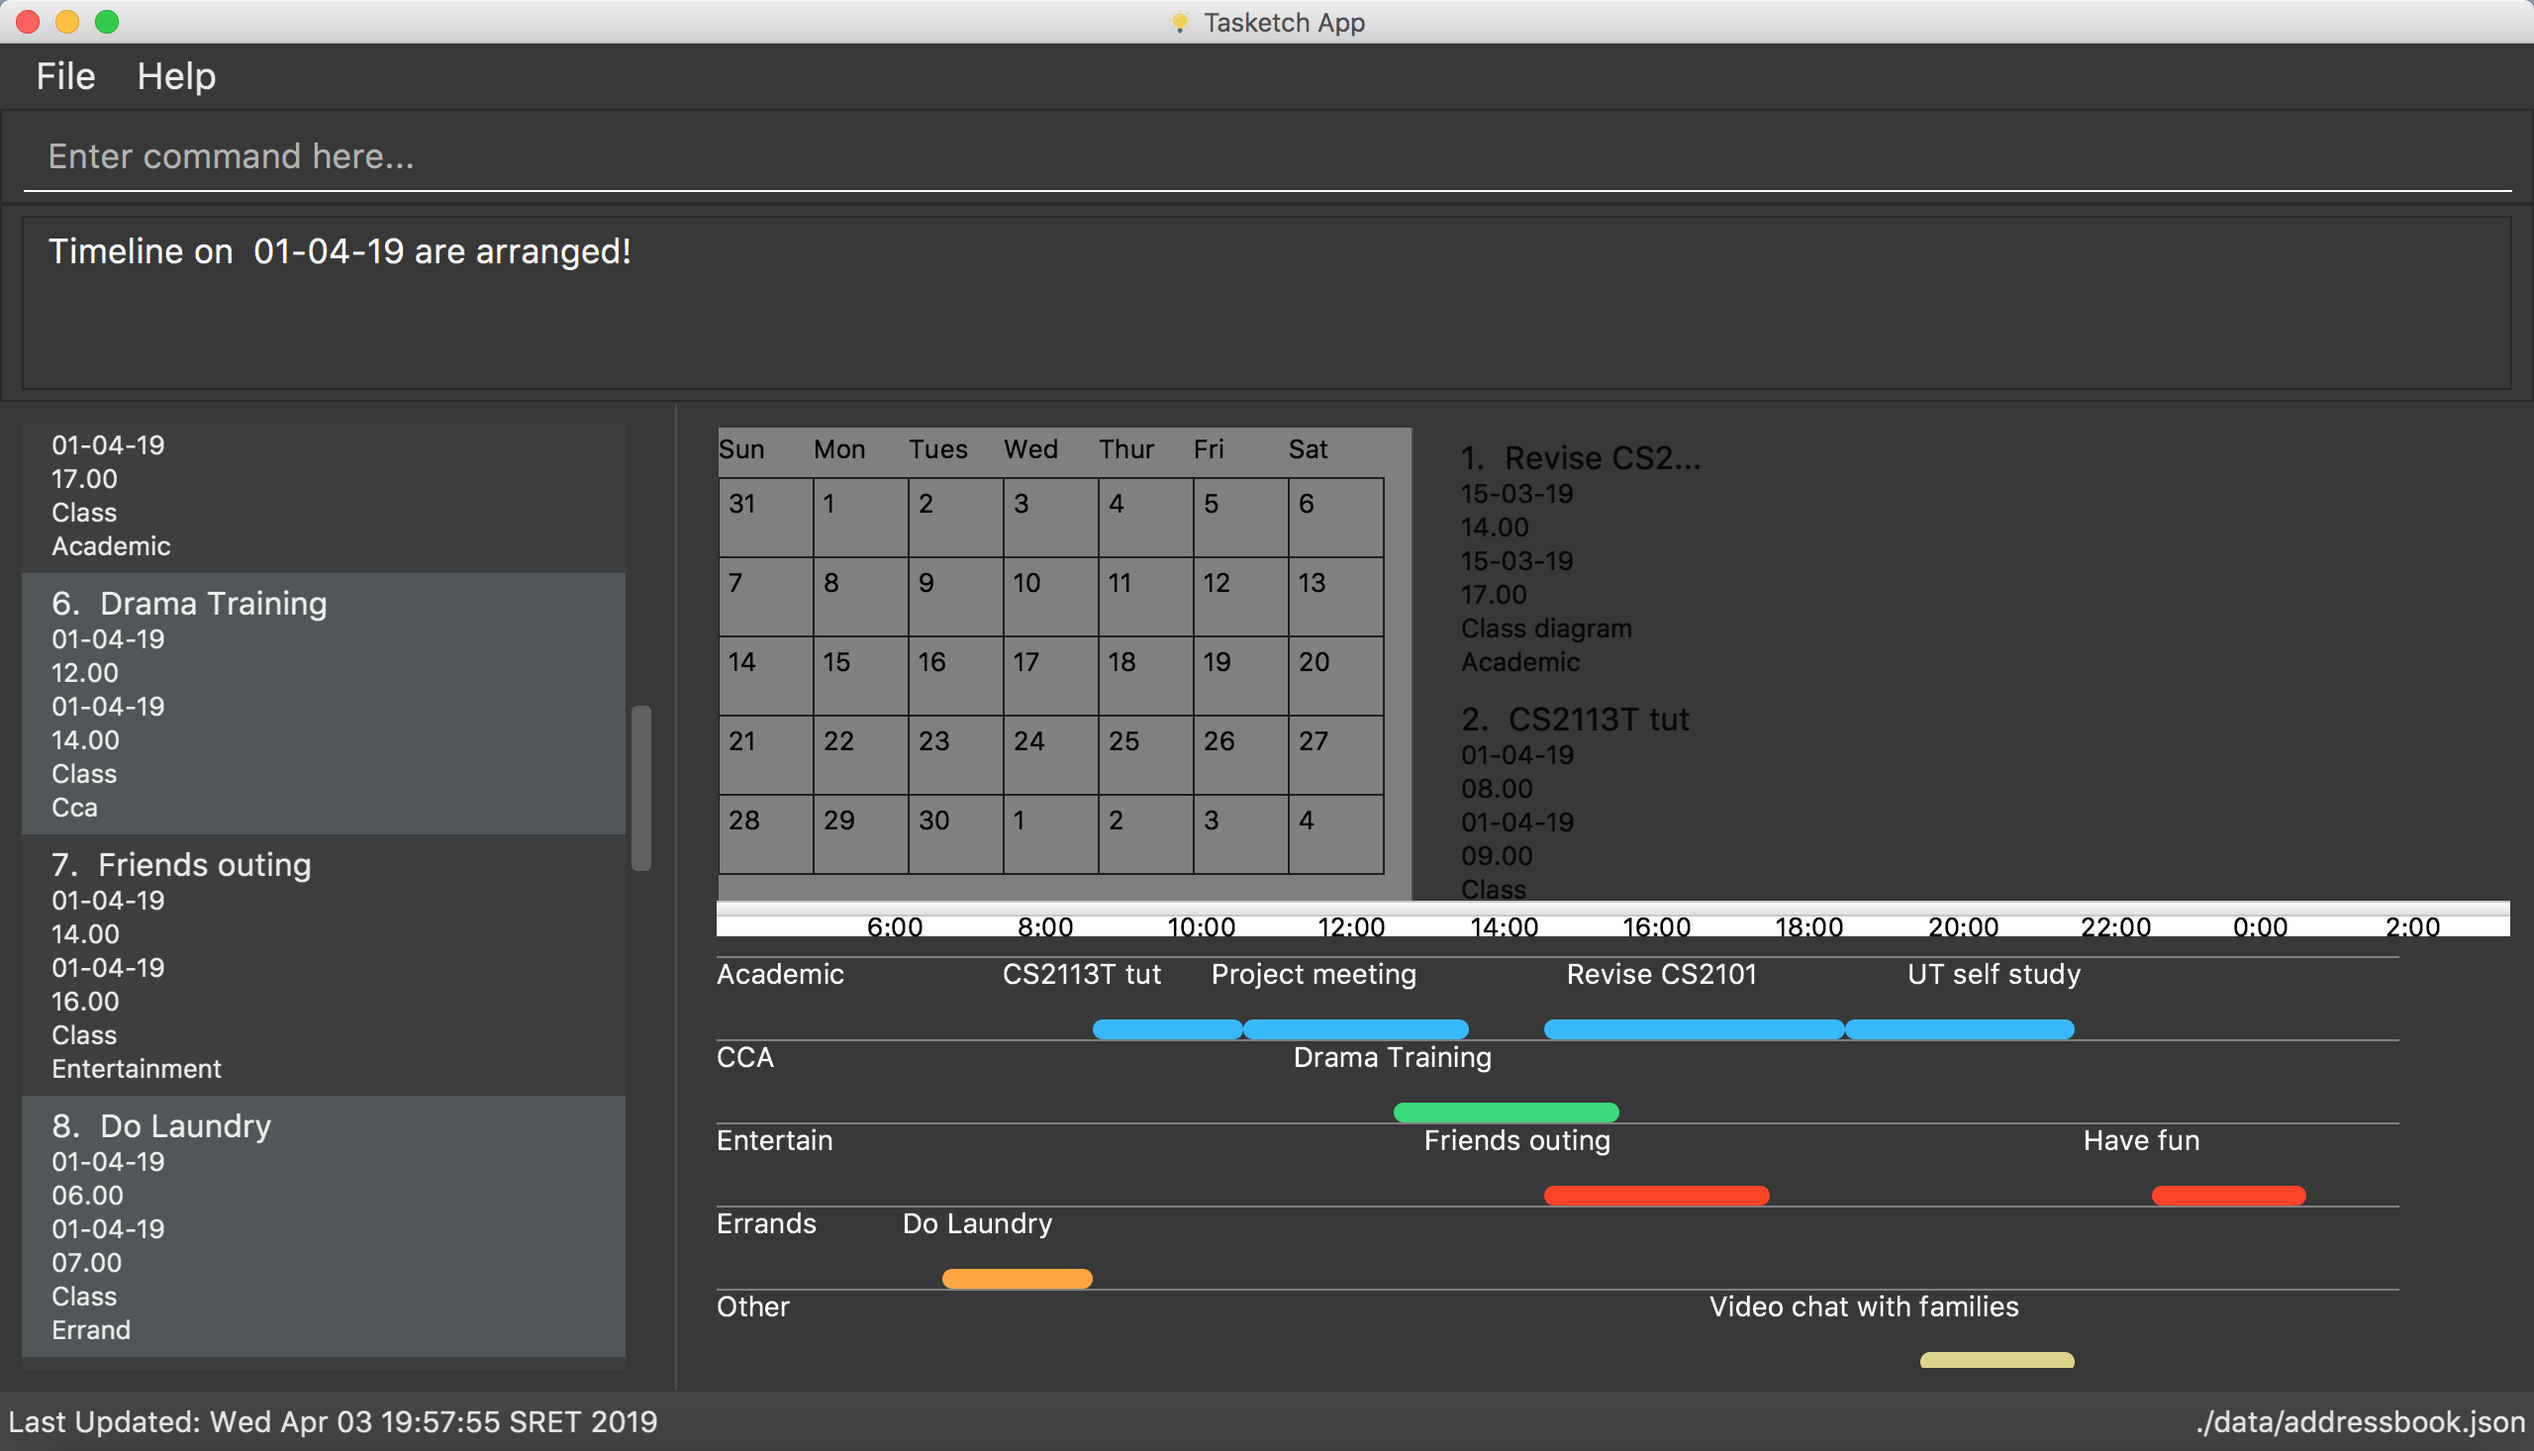
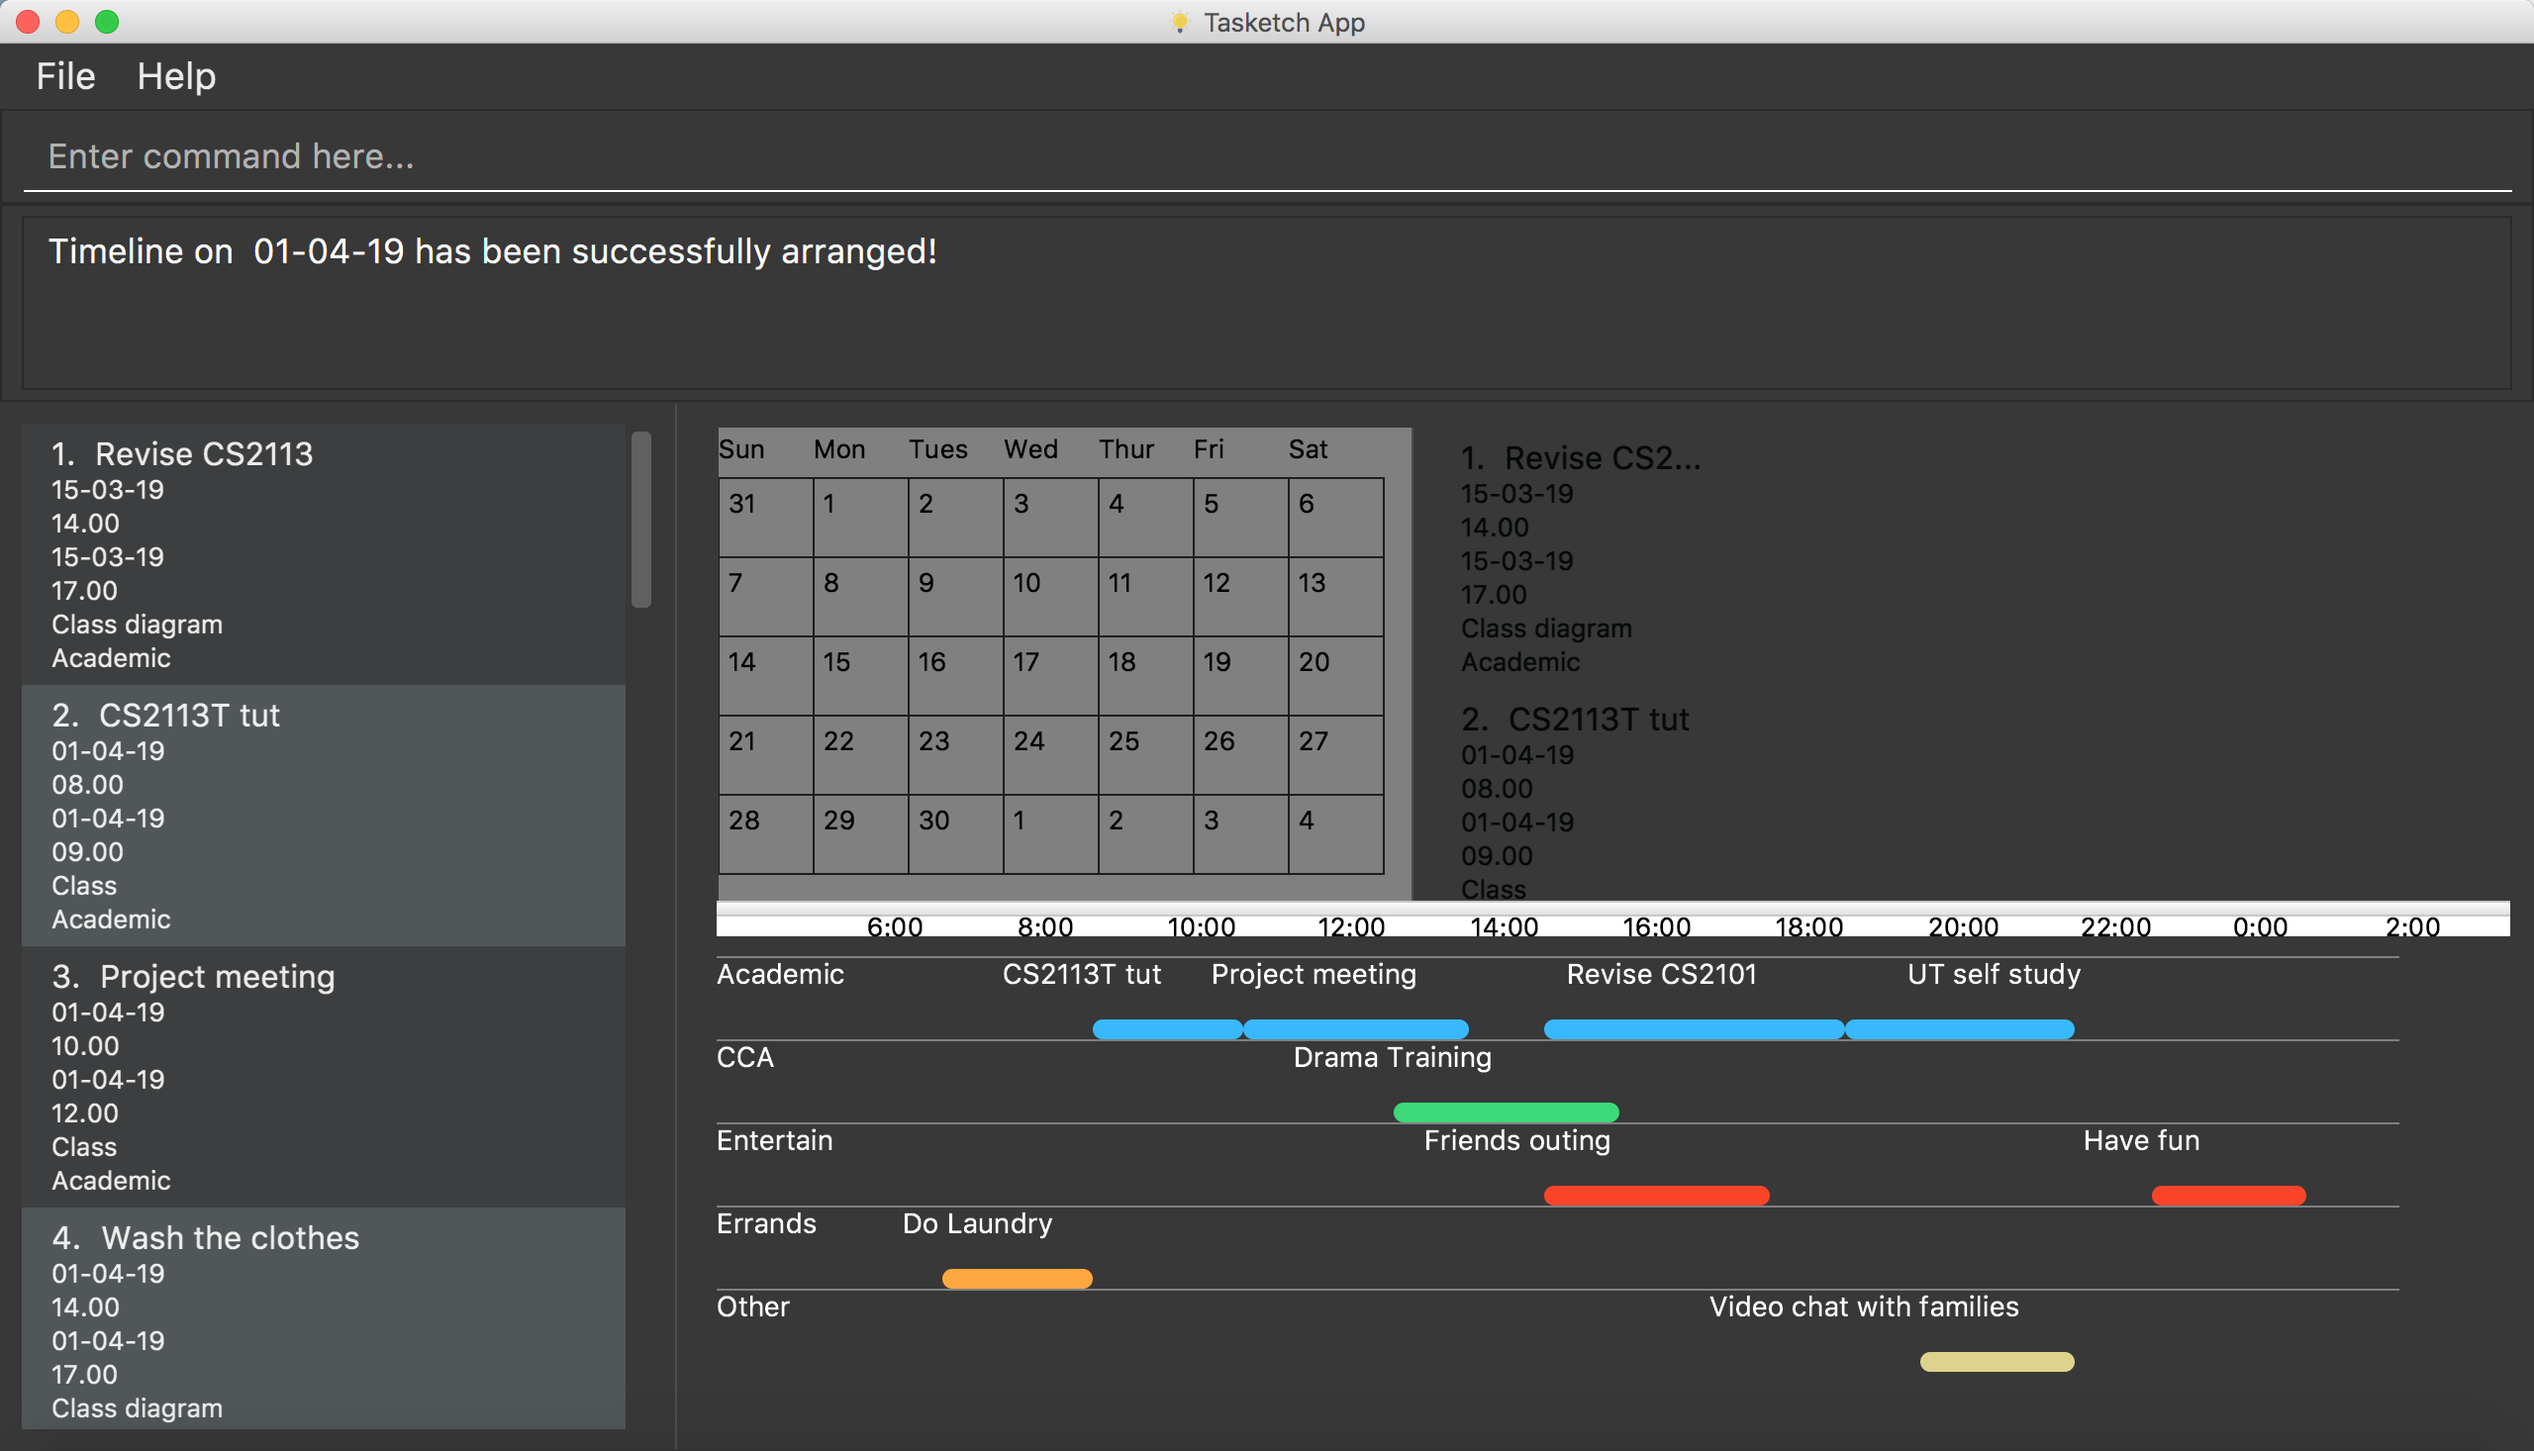
Update UI.png 2

Changed region(s): [[0.0, 0.307, 0.2812, 1.0], [0.875, 0.9516, 1.0, 1.0], [0.1562, 0.1535, 0.375, 0.1842]]

diff --git a/src/main/java/seedu/address/logic/commands/TimelineCommand.java b/src/main/java/seedu/address/logic/commands/TimelineCommand.java
@@ -29,7 +29,7 @@ public class TimelineCommand extends Command {
             + "into a timeline and displays them according to categories.\n"
             + "Parameters: [date]...\n"
             + "Example: " + COMMAND_WORD + "15-03-19";
-    public static final String MESSAGE_SUCCESS = "Timeline on %1$s are arranged!";
+    public static final String MESSAGE_SUCCESS = "Timeline on %1$s has been successfully arranged!";
     public static final String MESSAGE_ILLEGAL = "Incorrect date format. [dd-mm-yys]";
 
     private String parameter;

diff --git a/src/main/java/seedu/address/ui/MainWindow.java b/src/main/java/seedu/address/ui/MainWindow.java
@@ -157,7 +157,7 @@ public class MainWindow extends UiPart<Stage> {
         resultDisplayPlaceholder.getChildren().add(resultDisplay.getRoot());
 
         StatusBarFooter statusBarFooter = new StatusBarFooter(logic.getTaskBookFilePath(), logic.getTaskBook());
-        statusbarPlaceholder.getChildren().add(statusBarFooter.getRoot());
+        //statusbarPlaceholder.getChildren().add(statusBarFooter.getRoot());
 
         commandBox = new CommandBox(this::executeCommand, logic.getHistory());
 
